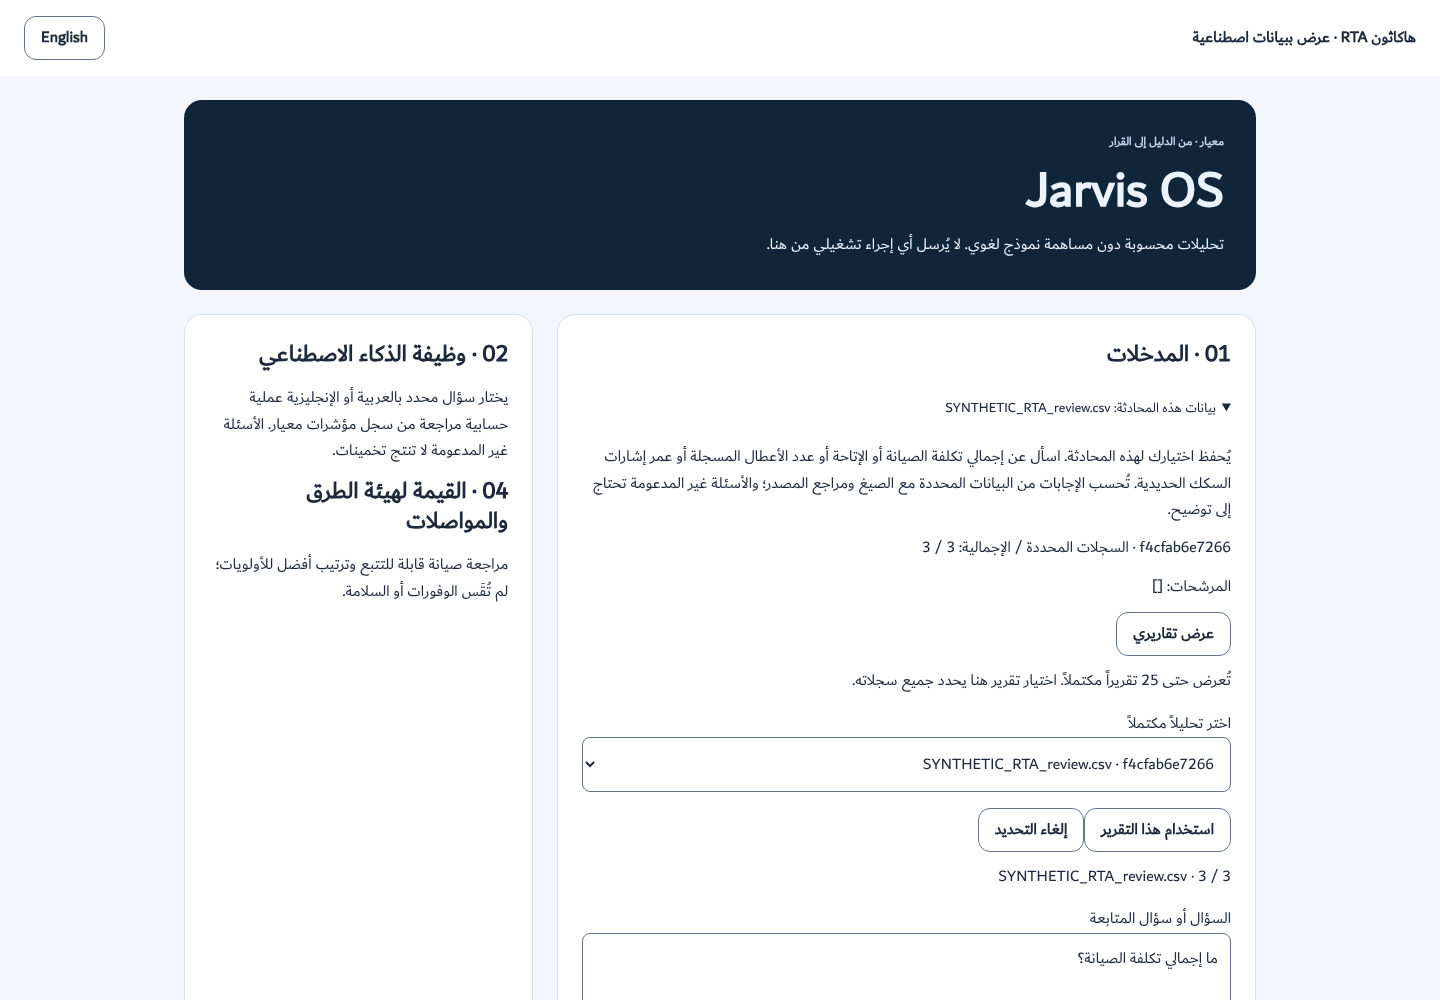
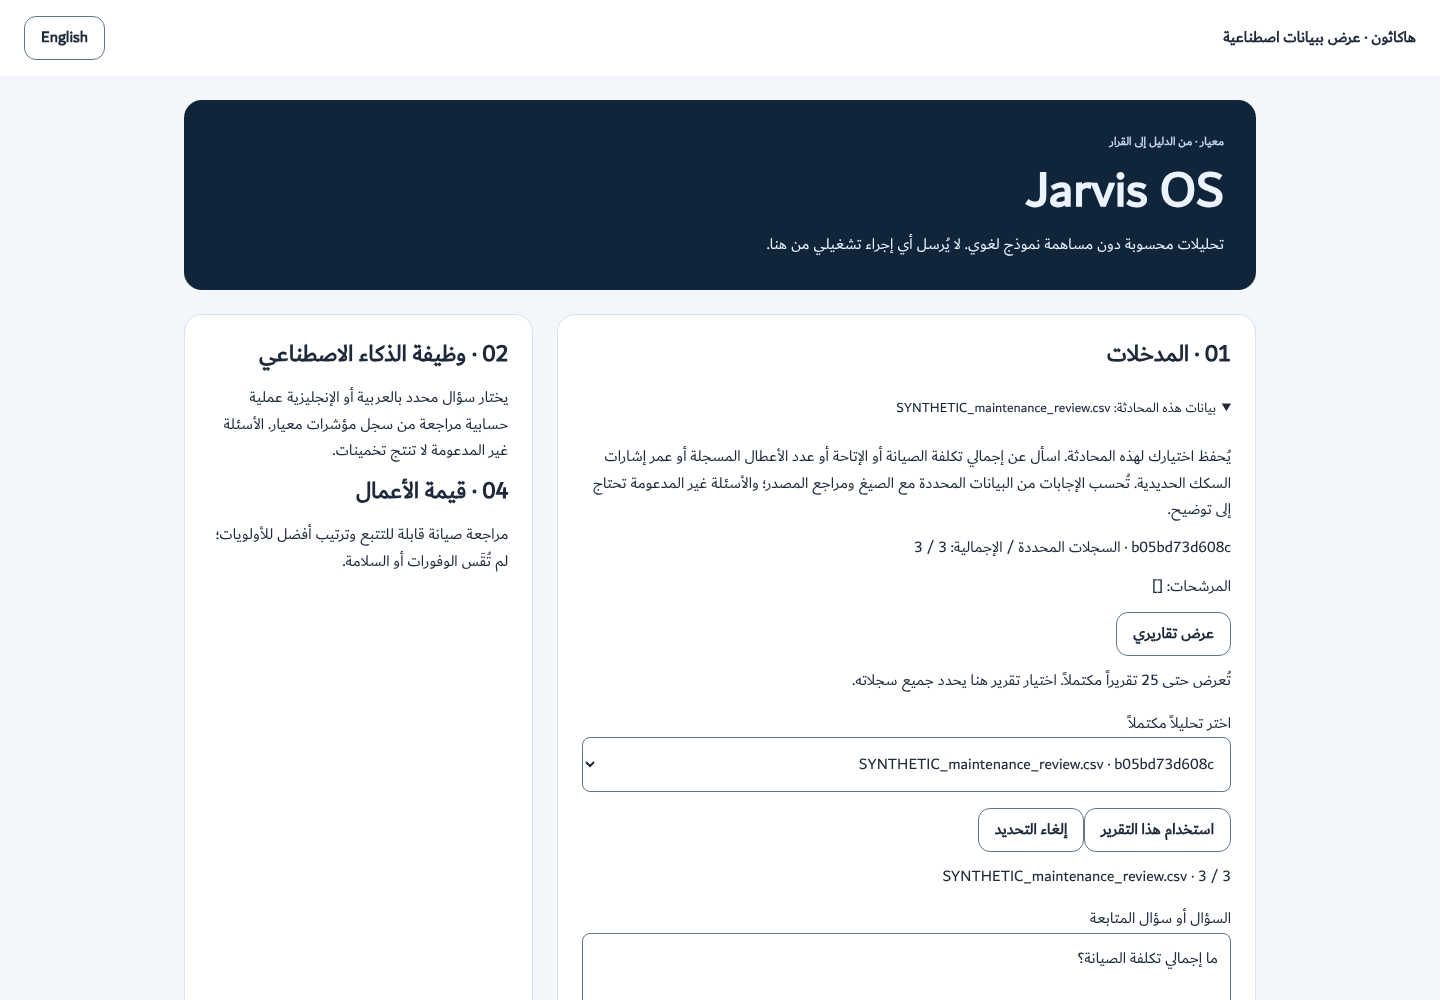
chore: remove the organisation name from the synthetic Jarvis demo
The synthetic demo data never came from any organisation, so its file,
labels and walkthrough no longer carry one. SYNTHETIC_RTA_review.csv is
now SYNTHETIC_maintenance_review.csv; the demo label reads "Hackathon ·
Synthetic demonstration"; the fourth step reads "Business value" (Arabic
"قيمة الأعمال", replacing the authority's full name); the walkthrough
says "no real operational dataset". The launcher, browser test and
screenshots follow. Budget unchanged in effect: first load 99,963 bytes,
total 262,946; the five Jarvis browser journeys pass.

Claude-Session: https://claude.ai/code/session_013QuA9ZJjZFprHsrGeG8vHp

diff --git a/frontend/src/i18n/jarvis.ts b/frontend/src/i18n/jarvis.ts
@@ -1,8 +1,8 @@
 import { definePack } from './pack'
 export const jarvisMessages = definePack({
-  title: 'Jarvis OS', subtitle: 'Miyaar · Evidence to decision', demo: 'RTA hackathon · Synthetic demonstration',
+  title: 'Jarvis OS', subtitle: 'Miyaar · Evidence to decision', demo: 'Hackathon · Synthetic demonstration',
   boundary: 'Calculated analytics. No LLM contribution. No operational action is dispatched here.',
-  input: '01 · Input', function: '02 · AI function', output: '03 · Output', value: '04 · RTA value',
+  input: '01 · Input', function: '02 · AI function', output: '03 · Output', value: '04 · Business value',
   functionText: 'A bounded bilingual question selects a reviewed calculation in Miyaar’s KPI register. Unsupported questions abstain.',
   valueText: 'A traceable maintenance review and better prioritisation; savings and safety are not measured.',
   question: 'Question or follow-up', ask: 'Calculate from selected report', cost: 'What is total maintenance cost?',
@@ -23,9 +23,9 @@ export const jarvisMessages = definePack({
   selectFirst: 'Select a completed report to begin.',
   boot: 'Open synthetic workspace', bootError: 'Workspace unavailable. Start the documented synthetic server; the original database is not used.',
 }, {
-  title: 'Jarvis OS', subtitle: 'معيار · من الدليل إلى القرار', demo: 'هاكاثون RTA · عرض ببيانات اصطناعية',
+  title: 'Jarvis OS', subtitle: 'معيار · من الدليل إلى القرار', demo: 'هاكاثون · عرض ببيانات اصطناعية',
   boundary: 'تحليلات محسوبة دون مساهمة نموذج لغوي. لا يُرسل أي إجراء تشغيلي من هنا.',
-  input: '01 · المدخلات', function: '02 · وظيفة الذكاء الاصطناعي', output: '03 · المخرجات', value: '04 · القيمة لهيئة الطرق والمواصلات',
+  input: '01 · المدخلات', function: '02 · وظيفة الذكاء الاصطناعي', output: '03 · المخرجات', value: '04 · قيمة الأعمال',
   functionText: 'يختار سؤال محدد بالعربية أو الإنجليزية عملية حسابية مراجعة من سجل مؤشرات معيار. الأسئلة غير المدعومة لا تنتج تخمينات.',
   valueText: 'مراجعة صيانة قابلة للتتبع وترتيب أفضل للأولويات؛ لم تُقَس الوفورات أو السلامة.',
   question: 'السؤال أو سؤال المتابعة', ask: 'احسب من التقرير المحدد', cost: 'ما إجمالي تكلفة الصيانة؟',

diff --git a/frontend/e2e-jarvis/workspace.spec.ts b/frontend/e2e-jarvis/workspace.spec.ts
@@ -8,7 +8,7 @@ async function open(page: Page, ar = false) {
   await page.getByRole('button', { name: ar ? 'فتح مساحة العرض الاصطناعي' : 'Open synthetic workspace' }).click()
   await page.locator('summary').first().click()
   await page.getByRole('button', { name: ar ? 'عرض تقاريري' : 'Show my reports' }).click()
-  const option = page.locator('select option').filter({ hasText: 'SYNTHETIC_RTA_review.csv' })
+  const option = page.locator('select option').filter({ hasText: 'SYNTHETIC_maintenance_review.csv' })
   await page.locator('select').selectOption(await option.getAttribute('value') as string)
   await page.getByRole('button', { name: ar ? 'استخدام هذا التقرير' : 'Use this report' }).click()
 }

diff --git a/scripts/serve_jarvis_demo.py b/scripts/serve_jarvis_demo.py
@@ -37,7 +37,7 @@ def main():
     engine = app.state.engine
     fixture = 'Record_ID,Asset_ID,Maintenance_Cost_USD,Operating_Hours,Planned_Operating_Hours,Downtime_Hours,Failure_Count\nSYN-01,SYN-A,120,90,100,10,1\nSYN-02,SYN-B,300,280,300,20,2\nSYN-03,SYN-C,80,100,100,0,0\n'
     sparse = 'Record_ID,Asset_ID,Maintenance_Cost_USD\nSYN-04,SYN-D,40\n'
-    for name, csv in [('SYNTHETIC_RTA_review.csv', fixture), ('SYNTHETIC_missing_hours.csv', sparse)]:
+    for name, csv in [('SYNTHETIC_maintenance_review.csv', fixture), ('SYNTHETIC_missing_hours.csv', sparse)]:
         run = engine.create_run('Synthetic hackathon maintenance review; no operational claim',
                                 dataset_text=csv, dataset_name=name)
         for _ in range(30):

diff --git a/docs/JARVIS_HACKATHON.md b/docs/JARVIS_HACKATHON.md
@@ -1,13 +1,13 @@
 # Jarvis OS hackathon walkthrough
 
-This is a synthetic maintenance decision demonstration. No RTA operational dataset, model response, savings or safety result is claimed.
+This is a synthetic maintenance decision demonstration. No real operational dataset, model response, savings or safety result is claimed.
 
 Use existing installed frontend dependencies and the project Python environment. Build with `npm --prefix frontend run build`. Run `python scripts/serve_jarvis_demo.py --data-dir <NEW-absolute-disposable-directory> --port 8017`, then open `http://127.0.0.1:8017/?workspace=jarvis`. Keep the terminal running. The launcher refuses an existing data directory, starts no worker, installs nothing and downloads no model. It keeps generated synthetic artifacts for inspection. Original Miyaar data is not used. Do not point it at production configuration.
 
-1. **Input:** open the synthetic workspace, expand Data for this chat, load reports and explicitly use `SYNTHETIC_RTA_review.csv`.
+1. **Input:** open the synthetic workspace, expand Data for this chat, load reports and explicitly use `SYNTHETIC_maintenance_review.csv`.
 2. **AI function:** ask the suggested maintenance-cost question. A bounded bilingual parser selects the existing deterministic KPI tool. No LLM contributes.
 3. **Output:** inspect cost 500 with undeclared currency, coverage, formula, dataset hash and report reference. Ask the availability follow-up: `(500 - 30) / 500 × 100 = 94%`. These are computed synthetic observations, not predictions. Unsupported prediction requests abstain. Switching to `SYNTHETIC_missing_hours.csv` produces undefined availability, not a made-up percentage.
-4. **RTA value:** discuss the potential for traceable maintenance prioritisation. Review the proposed source/completeness check, tick the acknowledgement and confirm the tab-local review. This does not create a work order or approve/publish a report.
+4. **Business value:** discuss the potential for traceable maintenance prioritisation. Review the proposed source/completeness check, tick the acknowledgement and confirm the tab-local review. This does not create a work order or approve/publish a report.
 
 Arabic: اختر التقرير الاصطناعي، واسأل «ما إجمالي تكلفة الصيانة؟»، ثم «ما هو التوافر؟». راجع الصيغة والمصدر والحدود قبل تأكيد المراجعة المحلية. الأرقام اصطناعية محسوبة ولا تثبت وفورات أو سلامة تشغيلية. تغيير السؤال أو التقرير يصفر المراجعة.
 
